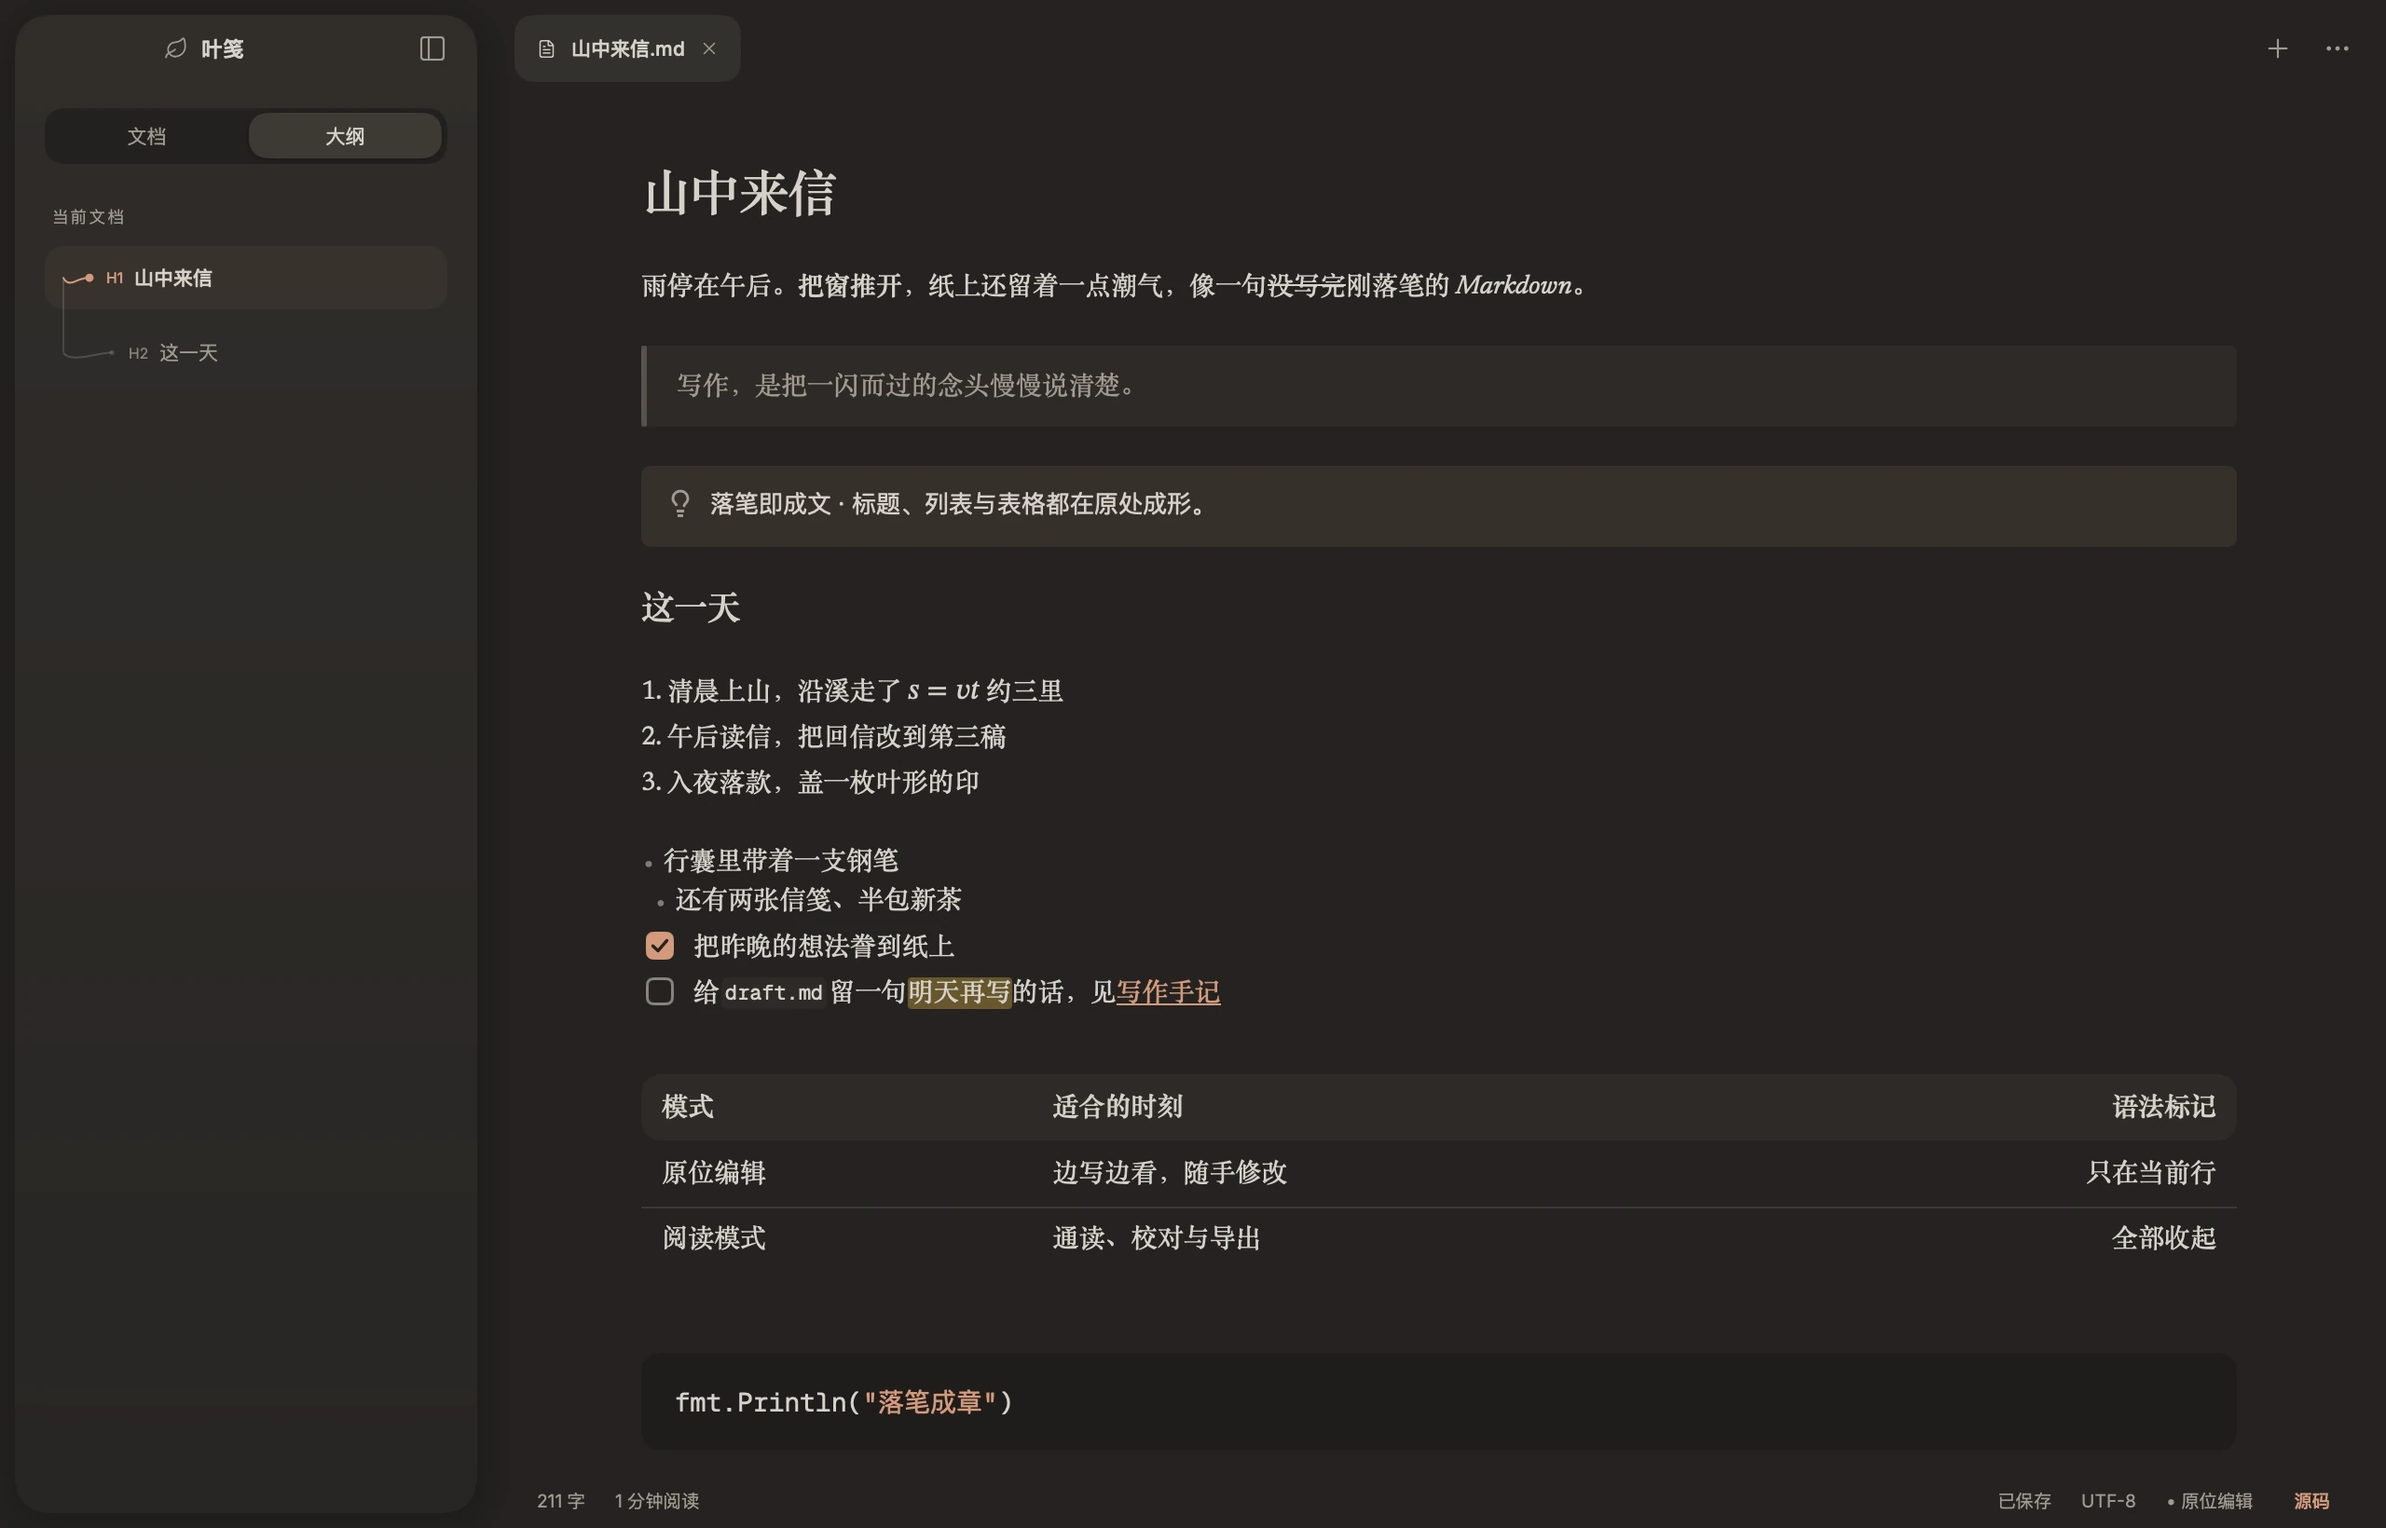
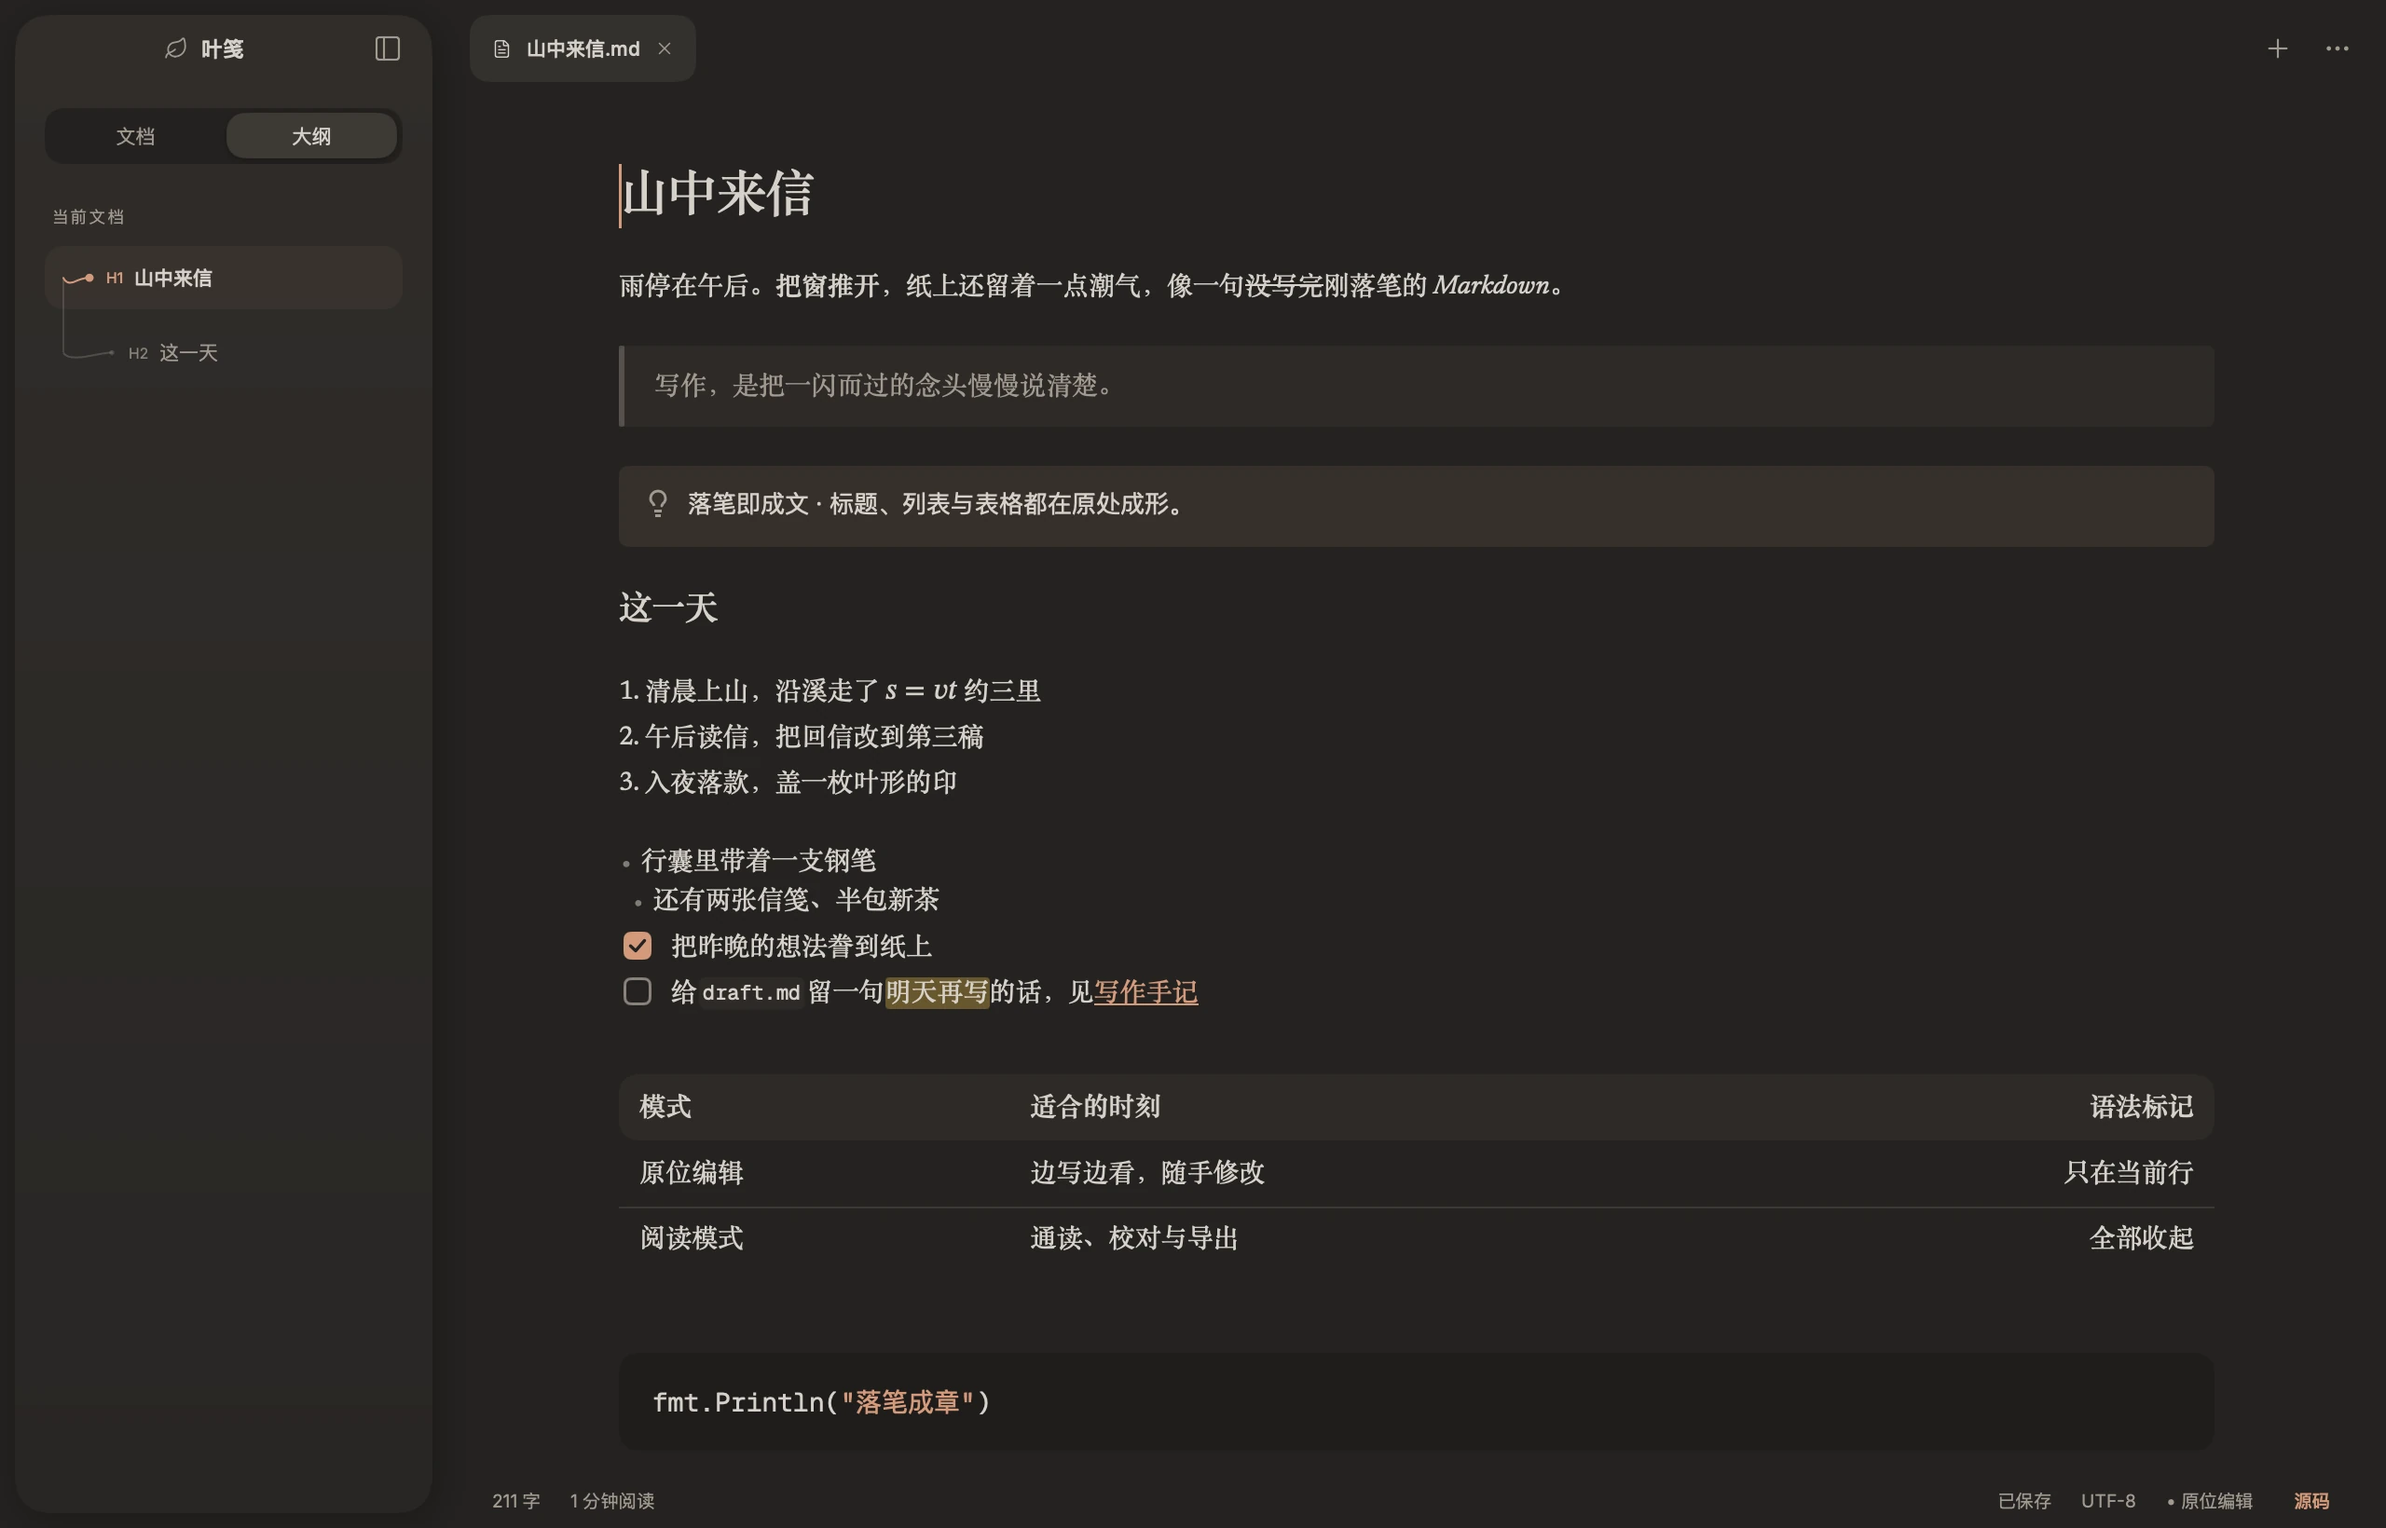
fix: 侧栏默认宽度收窄到 240，最小宽度放宽到 200

diff --git a/internal/desktop/native_visual_test.go b/internal/desktop/native_visual_test.go
@@ -129,7 +129,7 @@ func TestNativeVisualRestoresCompactChrome(t *testing.T) {
 	app.adopt(app.files.Current(), "# 山中来信\n\n正文")
 	view := ui.NewTester(app.View, 1100, 760)
 	side, ok := view.Find("文档导航")
-	if !ok || side.X != 8 || side.Y != 8 || side.W != 248 || side.H != 744 {
+	if !ok || side.X != 8 || side.Y != 8 || side.W != sidebarDefaultWidth-16 || side.H != 744 {
 		t.Fatalf("浮动侧栏尺寸不符：%+v", side)
 	}
 	if !view.HasText("大纲：山中来信") || !view.HasText("叶笺") || !view.HasText("UTF-8") {

diff --git a/internal/desktop/native_app.go b/internal/desktop/native_app.go
@@ -114,8 +114,8 @@ func (s nativeSettings) normalized() nativeSettings {
 
 // 侧栏宽度的默认值与拖动范围。
 const (
-	sidebarDefaultWidth = 264
-	sidebarMinWidth     = 220
+	sidebarDefaultWidth = 240
+	sidebarMinWidth     = 200
 	sidebarMaxWidth     = 520
 )
 

diff --git a/README.md b/README.md
@@ -30,7 +30,7 @@
 
 - 每个文档是一个独立标签，各自保留内容、选区和撤销历史；标签上的圆点表示有未保存的修改。
 - 在侧栏“文档”页打开一个文件夹作为工作区，可展开目录、按名称筛选并打开其中的 Markdown 文件。右键目录或文件可以新建文档、新建文件夹、重命名或在文件夹中显示；重命名已打开的文档或其所在文件夹前须先关闭相关标签。工作区不显示隐藏文件、`node_modules` 和符号链接，最多扫描 10,000 个条目和 64 层目录。
-- 侧栏同时列出近期文件，最多保留 30 条。拖动侧栏右缘可调整宽度（220–520，并给正文区至少留出 420），宽度随设置保存，双击右缘恢复默认宽度。
+- 侧栏同时列出近期文件，最多保留 30 条。拖动侧栏右缘可调整宽度（200–520，并给正文区至少留出 420），宽度随设置保存，双击右缘恢复默认宽度。
 - 侧栏的“大纲”页以叶脉的形式列出当前文档的标题：一条主脉贯穿全部标题，每个标题由一根侧脉连出，层级越深侧脉越长，并标出 H1、H2 等级别。点击标题跳到对应位置，光标所在章节的侧脉与级别以强调色标出。当前文档没有标题时，大纲页显示一枚线描叶子和提示文字。底部状态栏显示字数、预计阅读时长、保存状态、编码和当前编辑模式。字数按 Markdown 原文统计：汉字逐字计数，其他文字和数字按连续词计数。
 - 文件在其他程序里被修改时，没有本地改动的标签自动换成磁盘上的新内容；有未保存改动的标签暂停自动保存并提示，可从“⋯”菜单选择“从磁盘重新加载”。
 
